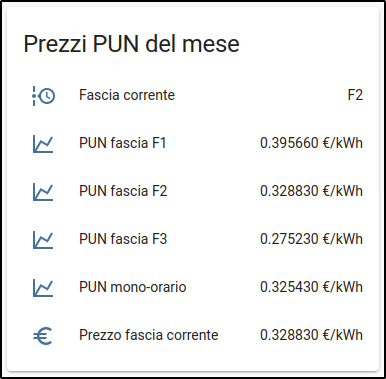
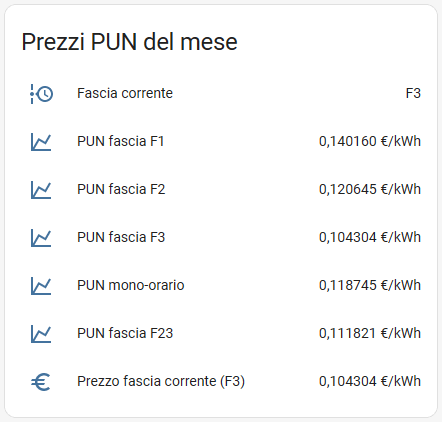
Calcolo fascia F23 per bioraria; fix #24

diff --git a/custom_components/pun_sensor/__init__.py b/custom_components/pun_sensor/__init__.py
@@ -22,6 +22,7 @@ from zoneinfo import ZoneInfo
 from .const import (
     DOMAIN,
     PUN_FASCIA_MONO,
+    PUN_FASCIA_F23,
     PUN_FASCIA_F1,
     PUN_FASCIA_F2,
     PUN_FASCIA_F3,
@@ -138,8 +139,8 @@ class PUNDataUpdateCoordinator(DataUpdateCoordinator):
         # Inizializza i valori di default
         self.web_retries = 0
         self.schedule_token = None
-        self.pun = [0.0, 0.0, 0.0, 0.0]
-        self.orari = [0, 0, 0, 0]
+        self.pun = [0.0, 0.0, 0.0, 0.0, 0.0]
+        self.orari = [0, 0, 0, 0, 0]
         self.fascia_corrente = None
         _LOGGER.debug('Coordinator inizializzato (con \'usa dati reali\' = %s).', self.actual_data_only)
 
@@ -263,6 +264,18 @@ class PUNDataUpdateCoordinator(DataUpdateCoordinator):
             self.pun[PUN_FASCIA_F2] = mean(f2)
         if self.orari[PUN_FASCIA_F3] > 0:
             self.pun[PUN_FASCIA_F3] = mean(f3)
+
+        # Calcola la fascia F23 (a partire da F2 ed F3)
+        # NOTA: la motivazione del calcolo è oscura ma sembra corretta; vedere:
+	    # https://github.com/virtualdj/pun_sensor/issues/24#issuecomment-1829846806
+        if self.orari[PUN_FASCIA_F2] > 0 and self.orari[PUN_FASCIA_F3] > 0:
+            # Esistono dati sia per F2 che per F3
+            self.orari[PUN_FASCIA_F23] = self.orari[PUN_FASCIA_F2] + self.orari[PUN_FASCIA_F3]
+            self.pun[PUN_FASCIA_F23] = 0.46 * self.pun[PUN_FASCIA_F2] + 0.54 * self.pun[PUN_FASCIA_F3]
+        else:
+            # Devono esserci dati sia per F2 che per F3 affinché il risultato sia valido
+            self.orari[PUN_FASCIA_F23] = 0
+            self.pun[PUN_FASCIA_F23] = 0
        
         # Logga i dati
         _LOGGER.debug('Numero di dati: ' + ', '.join(str(i) for i in self.orari))

diff --git a/custom_components/pun_sensor/sensor.py b/custom_components/pun_sensor/sensor.py
@@ -20,6 +20,7 @@ from . import PUNDataUpdateCoordinator
 from .const import (
     DOMAIN,
     PUN_FASCIA_MONO,
+    PUN_FASCIA_F23,
     PUN_FASCIA_F1,
     PUN_FASCIA_F2,
     PUN_FASCIA_F3,
@@ -45,6 +46,7 @@ async def async_setup_entry(hass: HomeAssistant, config: ConfigEntry,
     # Crea i sensori (legati al coordinator)
     entities = []
     entities.append(PUNSensorEntity(coordinator, PUN_FASCIA_MONO))
+    entities.append(PUNSensorEntity(coordinator, PUN_FASCIA_F23))
     entities.append(PUNSensorEntity(coordinator, PUN_FASCIA_F1))
     entities.append(PUNSensorEntity(coordinator, PUN_FASCIA_F2))
     entities.append(PUNSensorEntity(coordinator, PUN_FASCIA_F3))
@@ -85,6 +87,8 @@ class PUNSensorEntity(CoordinatorEntity, SensorEntity, RestoreEntity):
             self.entity_id = ENTITY_ID_FORMAT.format('pun_fascia_f1')
         elif (self.tipo == PUN_FASCIA_MONO):
             self.entity_id = ENTITY_ID_FORMAT.format('pun_mono_orario')
+        elif (self.tipo == PUN_FASCIA_F23):
+            self.entity_id = ENTITY_ID_FORMAT.format('pun_fascia_f23')
         else:
             self.entity_id = None
         self._attr_unique_id = self.entity_id
@@ -160,6 +164,8 @@ class PUNSensorEntity(CoordinatorEntity, SensorEntity, RestoreEntity):
             return "PUN fascia F1"
         elif (self.tipo == PUN_FASCIA_MONO):
             return "PUN mono-orario"
+        elif (self.tipo == PUN_FASCIA_F23):
+            return "PUN fascia F23"
         else:
             return None
 

diff --git a/custom_components/pun_sensor/const.py b/custom_components/pun_sensor/const.py
@@ -6,6 +6,7 @@ PUN_FASCIA_MONO = 0
 PUN_FASCIA_F1 = 1
 PUN_FASCIA_F2 = 2
 PUN_FASCIA_F3 = 3
+PUN_FASCIA_F23 = 4
 
 # Tipi di aggiornamento
 COORD_EVENT = "coordinator_event"

diff --git a/README.md b/README.md
@@ -52,6 +52,11 @@ template:
           {{ (1.1 * (states('sensor.pun_prezzo_fascia_corrente')|float(0) + 0.0087 + 0.04 + 0.0227))|round(3) }}
 ```
 
+### Fascia F23
+
+A partire dalla versione v0.5.0, è stato aggiunto il sensore relativo al calcolo della fascia F23, cioè quella contrapposta alla F1 nella bioraria. Il calcolo non è documentato molto nei vari siti (si veda [QUI](https://github.com/virtualdj/pun_sensor/issues/24#issuecomment-1806864251)) e non è affatto la media dei prezzi in F2 e F3 come si potrebbe pensare: c'è invece una percentuale fissa, [come ha scoperto *virtualj*](https://github.com/virtualdj/pun_sensor/issues/24#issuecomment-1829846806).
+Pertanto, seppur questo metodo non sia ufficiale, è stato implementato perché i risultati corrispondono sempre alle tabelle pubblicate online.
+
 ### In caso di problemi
 
 È possibile abilitare la registrazione dei log tramite l'interfaccia grafica in **Impostazioni > Dispositivi e servizi > Prezzi PUN del mese** e cliccando sul pulsante **Abilita la registrazione di debug**.
